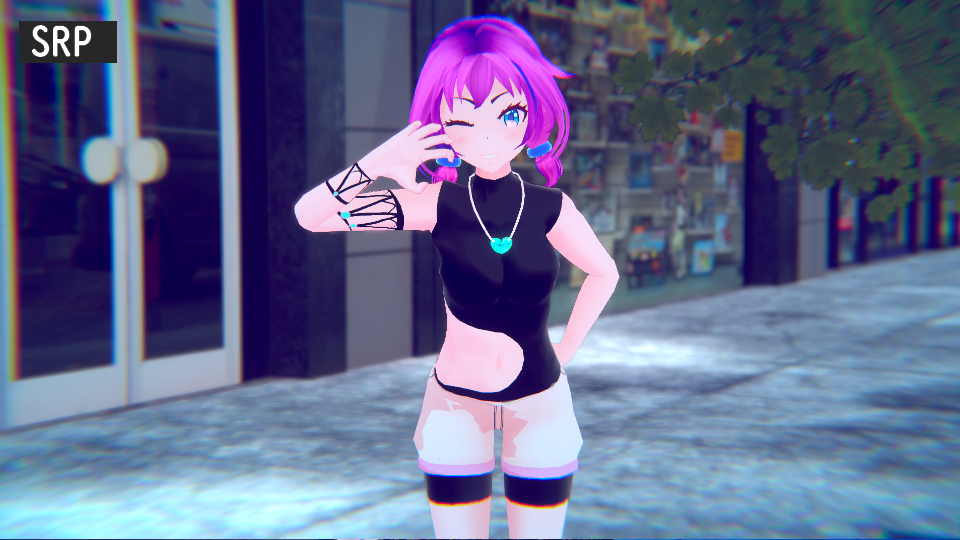
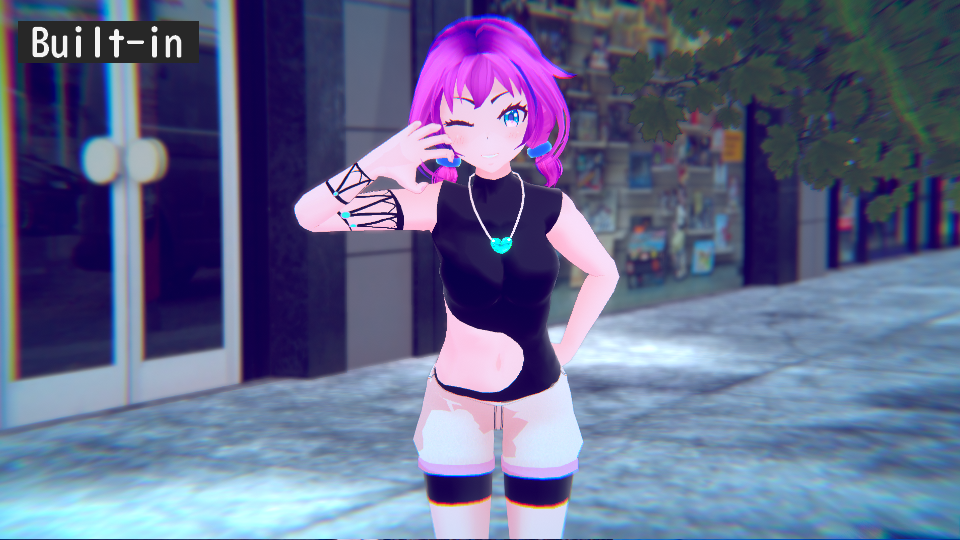
SRP→built-inに修正

Changed region(s): [[0.0312, 0.0296, 0.2188, 0.1185]]

diff --git a/musicvideo.html b/musicvideo.html
@@ -120,7 +120,7 @@
   <tr>
     <th name= "colorFlag">ビジュアル調整**</th>
     <td name= "colorFlag"><input type="radio" name="visual" value="20000" onchange="UpdatePrice()">HDRP (￥20000-)<br>
-	<input type="radio" name="visual" value="0" onchange="UpdatePrice()" checked="checked">SRP (￥0-)</td>
+	<input type="radio" name="visual" value="0" onchange="UpdatePrice()" checked="checked">Built-in (￥0-)</td>
     <td name= "colorFlag"><h13 id="price_6">お尋ねください</h13></td>
   </tr>
   <tr>
@@ -289,7 +289,7 @@
 <br>
 <br>
 <div class="list">
-<h4><strong class="color1"><font size = "5">**ビジュアル調整</font></strong>　HDRPとSRPの2種類の質感を選べます。HDRPの方がより高度なレンダリングです。</h4>
+<h4><strong class="color1"><font size = "5">**ビジュアル調整</font></strong>　HDRPとBuilt-inの2種類の質感を選べます。HDRPの方がより高度なレンダリングです。</h4>
 <div class="inner">
 <h12><img src="images/musicvideo/musicvideo_hdrp.png" alt=""></h12>
 <h12><img src="images/musicvideo/musicvideo_srp.png" alt=""></h12>
